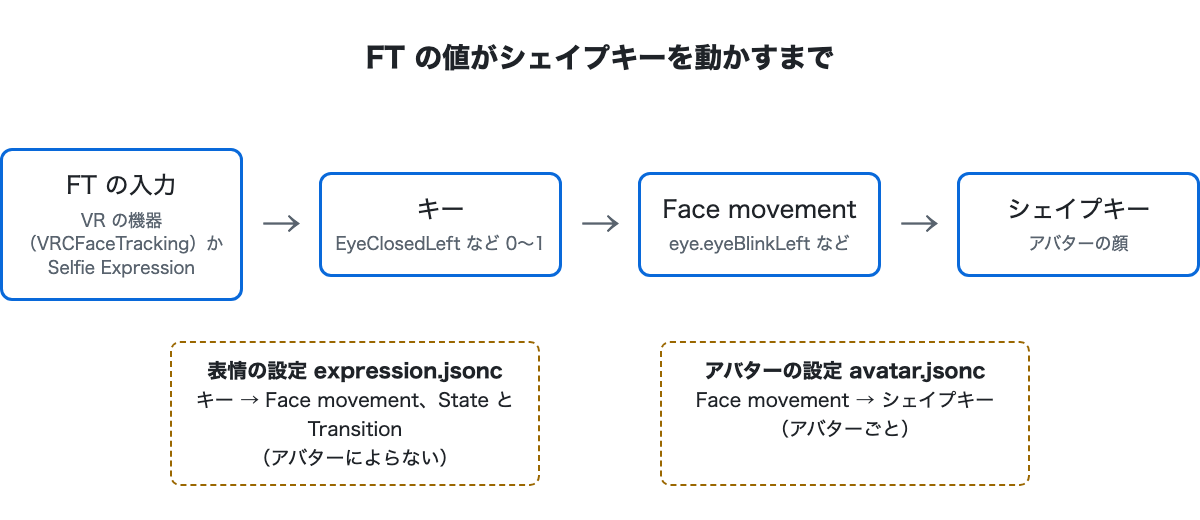
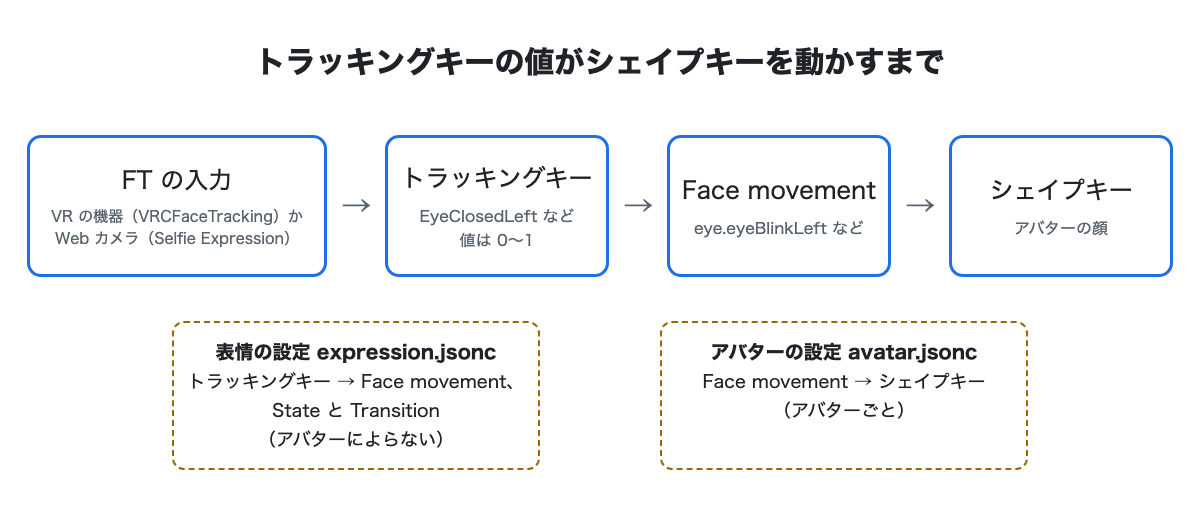
Name the version 1.0.3

diff --git a/Packages/dev.kmnk.face-tracking-generator/Documentation~/manual-ja/index.html b/Packages/dev.kmnk.face-tracking-generator/Documentation~/manual-ja/index.html
@@ -32,8 +32,8 @@ blockquote { margin: 1em 0; padding: 0 1em; color: var(--muted); border-left: 4p
 <div class="page">
 <main>
 <h1 id="face-tracking-generator-マニュアル">Face Tracking Generator マニュアル</h1>
-<p>Face Tracking Generator（FTG）は、VRChat のアバターのフェイストラッキング（FT）の設定を、Unity のエディタの中で作るツールです。このマニュアルは、FTG と一緒に配っている日本語のマニュアルです。設定ファイルの書き方や内部の振る舞いまで含めた英語の詳しいリファレンスは、リポジトリの README（<a href="https://github.com/kmnk/VRChat_FaceTrackingGenerator">https://github.com/kmnk/VRChat_FaceTrackingGenerator</a> ）にあります。</p>
-<p>FT の値を表情ごとに測るアプリ FT Measure（ft-measure）の使い方は、FT Measure のマニュアル（<a href="https://github.com/kmnk/ft-measure/blob/master/docs/manual-ja/README.md">https://github.com/kmnk/ft-measure/blob/master/docs/manual-ja/README.md</a> ）にあります。</p>
+<p>Face Tracking Generator（FTG）は、VRChat のアバターのフェイストラッキング（FT）の設定を、Unity のエディタの中で作成するツールです。このマニュアルは、FTG と一緒に配っている日本語のマニュアルです。設定ファイルの書き方や内部の振る舞いまで含めた英語の詳しいリファレンスは、リポジトリの README（<a href="https://github.com/kmnk/VRChat_FaceTrackingGenerator">https://github.com/kmnk/VRChat_FaceTrackingGenerator</a> ）にあります。</p>
+<p><a href="#%E7%94%A8%E8%AA%9E%E9%9B%86">トラッキングキー</a>の値を表情ごとに測るアプリ FT Measure（ft-measure）の使い方は、FT Measure のマニュアル（<a href="https://github.com/kmnk/ft-measure/blob/master/docs/manual-ja/README.md">https://github.com/kmnk/ft-measure/blob/master/docs/manual-ja/README.md</a> ）にあります。</p>
 <nav class="toc" aria-label="目次">
 <strong>目次</strong>
 <ul>
@@ -99,26 +99,28 @@ blockquote { margin: 1em 0; padding: 0 1em; color: var(--muted); border-left: 4p
 <h2 id="はじめに">はじめに</h2>
 <h3 id="できること">できること</h3>
 <ul>
-<li>Web カメラ（VRChat の Selfie Expression）でも、VR の機器（VRCFaceTracking）でも使えます。VR の機器が無くても、デスクトップの VRChat で使えます（「<a href="#%E3%83%87%E3%82%B9%E3%82%AF%E3%83%88%E3%83%83%E3%83%97selfie-expression%E3%81%A7%E4%BD%BF%E3%81%86">デスクトップ（Selfie Expression）で使う</a>」）</li>
-<li><a href="#%E7%94%A8%E8%AA%9E%E9%9B%86">Face movement</a>（まばたき、口の開き、口角など）を、FT の値でアバターのシェイプキーに当てます</li>
-<li><code>joy</code>・<code>angry</code>・<code>sad</code> のような <a href="#%E7%94%A8%E8%AA%9E%E9%9B%86">State</a> を作り、State から State へ移る <a href="#%E7%94%A8%E8%AA%9E%E9%9B%86">Transition</a> とその条件（FT の値）を、Unity の Animator に似たグラフで書けます</li>
+<li>デスクトップでは Web カメラ（VRChat の Selfie Expression）で、VR では FT の機器（VRCFaceTracking）で使えます。FT の機器が無くても、デスクトップの VRChat で使えます（「<a href="#%E3%83%87%E3%82%B9%E3%82%AF%E3%83%88%E3%83%83%E3%83%97selfie-expression%E3%81%A7%E4%BD%BF%E3%81%86">デスクトップ（Selfie Expression）で使う</a>」）</li>
+<li><a href="#%E7%94%A8%E8%AA%9E%E9%9B%86">Face movement</a>（まばたき、口の開き、口角など）を、トラッキングキーの値でアバターのシェイプキーに当てます</li>
+<li><code>joy</code>・<code>angry</code>・<code>sad</code> のような <a href="#%E7%94%A8%E8%AA%9E%E9%9B%86">State</a> を作り、State から State へ移る <a href="#%E7%94%A8%E8%AA%9E%E9%9B%86">Transition</a> とその条件（トラッキングキーの値）を、Unity の Animator に似たグラフで書けます</li>
 <li>State ごとに、目や口の動きを上書きできます。涙や頬の赤らみのようなシェイプキーを、その State の間ずっと一定の量で出しておくこともできます（<strong>Fixed face movements</strong> の欄で設定します）</li>
 <li>VRChat でアバターを着たときに開くメニュー（Expressions Menu）から、State を選べるようにできます</li>
 <li>VR の機器とデスクトップ（VRChat の Selfie Expression）で、Transition の条件や <a href="#%E7%94%A8%E8%AA%9E%E9%9B%86">Curve</a> を分けて書けます</li>
 <li>FT の設定は、アップロードと Play Mode のタイミングで自動的に作成されます。元のアバターの各設定（コントローラー、Expressions Menu、Expression Parameters）は書き換えません</li>
 </ul>
 <h3 id="仕組み">仕組み</h3>
-<p><img src="images/overview.png" alt="FT の値がシェイプキーを動かすまでの流れ"></p>
-<p>VRChat は、VR の機器（VRCFaceTracking を通す）やデスクトップの Selfie Expression から、顔の値を受け取ります。値には <code>EyeClosedLeft</code>（左目の閉じ具合）や <code>JawOpen</code>（あごの開き）のような名前があり、この名前を<a href="#%E7%94%A8%E8%AA%9E%E9%9B%86">キー</a>と呼びます。値は 0〜1 です。</p>
-<p>FTG は、キーを Face movement（<code>eye.eyeBlinkLeft</code> など）に当て、Face movement をアバターのシェイプキーに当てます。この 2 段の対応を、2 つの設定ファイルに分けて持ちます。</p>
+<p><img src="images/overview.png" alt="トラッキングキーの値がシェイプキーを動かすまでの流れ"></p>
+<p>VRChat は、VR の機器（VRCFaceTracking を通す）やデスクトップの Selfie Expression（Web カメラ）から、顔の各部分がどのくらい動いているかを、0〜1 の値で受け取ります。値には <code>EyeClosedLeft</code>（左目の閉じ具合）や <code>JawOpen</code>（あごの開き）のような名前があり、この名前を<a href="#%E7%94%A8%E8%AA%9E%E9%9B%86">トラッキングキー</a>と呼びます（VRChat の Avatar Descriptor では Tracking Keys、FTG の画面では <strong>Key</strong> の列）。たとえば左目を閉じると <code>EyeClosedLeft</code> が 1 に近づきます。</p>
+<p>FTG は、トラッキングキーを Face movement（<code>eye.eyeBlinkLeft</code> など）に当て、Face movement をアバターのシェイプキーに当てます。この 2 段の対応を、2 つの設定ファイルに分けて持ちます。</p>
 <ul>
-<li>表情の設定（<code>expression.jsonc</code>）: どのキーでどの Face movement を動かすか、どんな State があるか。アバターによらないので、別のアバターに持っていけます</li>
+<li>表情の設定（<code>expression.jsonc</code>）: どのトラッキングキーでどの Face movement を動かすか、どんな State があるか。アバターによらないので、別のアバターに持っていけます</li>
 <li>アバターの設定（<code>avatar.jsonc</code>）: Face movement ごとに、このアバターのどのシェイプキーを動かすか</li>
 </ul>
-<p>Face movement とシェイプキーの対応は、VRChat のネイティブ FT（アバターの Avatar Descriptor の Face Tracking の区画）の <a href="#%E7%94%A8%E8%AA%9E%E9%9B%86">Blendshapes Set</a> として書かれます。VRChat がシェイプキーを直接動かすので、FT の値をパラメータで同期しません。Transition の条件に使うキーだけは、VRChat の <a href="#%E7%94%A8%E8%AA%9E%E9%9B%86">Forward to Animator</a> で Animator に渡します。</p>
+<p><img src="images/value-flow.png" alt="左目を閉じたときに、トラッキングキーの値がシェイプキーに届くまでの例"></p>
+<p>たとえば左目を閉じて <code>EyeClosedLeft</code> が 0.9 になると、<a href="#%E7%94%A8%E8%AA%9E%E9%9B%86">neutral</a> では、表情の設定の行「<code>EyeClosedLeft</code> → <code>eye.eyeBlinkLeft</code>」と、アバターの設定で <code>eye.eyeBlinkLeft</code> に当てたまばたきのシェイプキーを通って、そのシェイプキーが 90 動きます。<code>joy</code> に入っていて <code>joy</code> が目の <a href="#%E7%94%A8%E8%AA%9E%E9%9B%86">Region</a> を上書きしていると、同じ <code>EyeClosedLeft</code> が <code>eye.joy.eyeBlinkLeft</code> を通り、別のシェイプキー（目を弧の形にして閉じるシェイプキーなど）が動きます。動く量は、行の <a href="#%E7%94%A8%E8%AA%9E%E9%9B%86">Curve</a> とアバターの設定の <a href="#%E7%94%A8%E8%AA%9E%E9%9B%86">Scale</a> で変えられます。</p>
+<p>Face movement とシェイプキーの対応は、VRChat のネイティブ FT（アバターの Avatar Descriptor の Face Tracking の区画）の <a href="#%E7%94%A8%E8%AA%9E%E9%9B%86">Blendshapes Set</a> として書かれます。VRChat がシェイプキーを直接動かすので、FT の値をパラメータで同期しません。Transition の条件に使うトラッキングキーだけは、VRChat の <a href="#%E7%94%A8%E8%AA%9E%E9%9B%86">Forward to Animator</a> で Animator に渡します。</p>
 <h3 id="neutral-と-state">neutral と State</h3>
-<p>どの State にも入っていないときの顔を <a href="#%E7%94%A8%E8%AA%9E%E9%9B%86">neutral</a> と呼びます。neutral では、目・口などの <a href="#%E7%94%A8%E8%AA%9E%E9%9B%86">Region</a> ごとに、キーが Face movement を動かします。</p>
-<p>State（<code>joy</code> など）に入ると、その State が上書きする Region だけ、動き方が替わります。たとえば <code>joy</code> で目を上書きすると、<code>joy</code> の間は、まばたきのキーで動くシェイプキーを、ふだんのまばたきとは別のもの（たとえば目を弧の形にして閉じるシェイプキー）に替えられます。上書きしない Region は、neutral のまま動きます。</p>
+<p>どの State にも入っていないときの顔を <a href="#%E7%94%A8%E8%AA%9E%E9%9B%86">neutral</a> と呼びます。neutral では、目・口などの <a href="#%E7%94%A8%E8%AA%9E%E9%9B%86">Region</a> ごとに、トラッキングキーが Face movement を動かします。</p>
+<p>State（<code>joy</code> など）に入ると、その State が上書きする Region だけ、動き方が替わります。たとえば <code>joy</code> で目を上書きすると、<code>joy</code> の間は、まばたきのトラッキングキーで動くシェイプキーを、ふだんのまばたきとは別のもの（たとえば目を弧の形にして閉じるシェイプキー）に替えられます。上書きしない Region は、neutral のまま動きます。</p>
 <p>State は <a href="#%E7%94%A8%E8%AA%9E%E9%9B%86">State Machine</a> の中にあり、Transition の条件（「左右の口角を上げる値がどちらも 0.8 を超えたら <code>joy</code> に入る」など）で切り替わります。State Machine は複数並べられます。</p>
 <h3 id="vr-とデスクトップ">VR とデスクトップ</h3>
 <p>VR の機器とデスクトップの Selfie Expression では、同じ顔をしても値の出方が違うことがあります。FTG は、Transition・Curve・Stop visemes を機器ごとに書けます。書かなければ両方で同じです。詳しくは「<a href="#vr-%E3%81%A8%E3%83%87%E3%82%B9%E3%82%AF%E3%83%88%E3%83%83%E3%83%97%E3%81%A7%E5%88%86%E3%81%91%E3%82%8B">VR とデスクトップで分ける</a>」にあります。</p>
@@ -213,7 +215,7 @@ blockquote { margin: 1em 0; padding: 0 1em; color: var(--muted); border-left: 4p
 <h3 id="state-の顔を作る">State の顔を作る</h3>
 <ol>
 <li>グラフで <strong>joy</strong> を選びます。右に State の設定が出ます</li>
-<li>目の Region（eye）を <strong>Override</strong> にし、<strong>+ Add Row</strong> で行を追加します。行は「キー → Face movement」です。たとえば <code>EyeClosedLeft</code> → <code>eye.joy.eyeBlinkLeft</code> にすると、<code>joy</code> の間は、左目のまばたきで <code>eye.joy.eyeBlinkLeft</code> に当てたシェイプキーが動きます（下の画像の行）
+<li>目の Region（eye）を <strong>Override</strong> にし、<strong>+ Add Row</strong> で行を追加します。行は「トラッキングキー → Face movement」です。たとえば <code>EyeClosedLeft</code> → <code>eye.joy.eyeBlinkLeft</code> にすると、<code>joy</code> の間は、左目のまばたきで <code>eye.joy.eyeBlinkLeft</code> に当てたシェイプキーが動きます（下の画像の行）
 <ul>
 <li><code>joy</code> の間だけ使う Face movement は、先に設定エディタの Avatar タブの <strong>+ Add Face Movement</strong> で <code>eye.joy.eyeBlinkLeft</code> のように「Region.State.名前」で追加し、使いたいシェイプキー（目を弧の形にして閉じるシェイプキーなど）を当てておきます</li>
 </ul>
@@ -223,7 +225,7 @@ blockquote { margin: 1em 0; padding: 0 1em; color: var(--muted); border-left: 4p
 </ol>
 <p>State を選ぶと、Face view にその State の顔が出ます。</p>
 <p><img src="images/face-view-joy.png" alt="Face view の joy の顔"></p>
-<p>Region の <strong>Off</strong> は、その Region の neutral の動きを止めます。話している間にも入る State（口角で入る <code>joy</code> など）で口の Region（lip）を Off にすると、その間は FT で口角や唇が動かなくなります。<strong>Don't move</strong> の行は、そのキーで何も動かしません。<strong>Copy from</strong> で、別の State の行を写せます。</p>
+<p>Region の <strong>Off</strong> は、その Region の neutral の動きを止めます。話している間にも入る State（口角で入る <code>joy</code> など）で口の Region（lip）を Off にすると、その間は FT で口角や唇が動かなくなります。<strong>Don't move</strong> の行は、そのトラッキングキーで何も動かしません。<strong>Copy from</strong> で、別の State の行を写せます。</p>
 <h3 id="transition-の条件を変える">Transition の条件を変える</h3>
 <p>テンプレートの Transition は、入り方の 3 つの見本になっています。</p>
 <ul>
@@ -243,7 +245,7 @@ blockquote { margin: 1em 0; padding: 0 1em; color: var(--muted); border-left: 4p
 <h3 id="preview-で確認する">Preview で確認する</h3>
 <ol>
 <li>設定エディタの <strong>Preview</strong> タブで、シーンのアバターを選び、<strong>Start preview</strong> を押します</li>
-<li>スライダー（キー）を動かすと、顔と State が変わります</li>
+<li>スライダー（トラッキングキー）を動かすと、顔と State が変わります</li>
 <li><strong>Try expressions</strong> は、崩れやすい表情にスライダーを合わせます。同じ所に重なる Face movement の数と、警告が出ます</li>
 <li><strong>Stop preview</strong> でアバターを元に戻します</li>
 </ol>
@@ -293,22 +295,22 @@ blockquote { margin: 1em 0; padding: 0 1em; color: var(--muted); border-left: 4p
 </ol>
 <p>Web カメラの映像は PC の中で処理され、VRChat には送られません。</p>
 <h3 id="動くものと動かないもの">動くものと動かないもの</h3>
-<p>VRChat は、Selfie Expression がどのキーを送るかを公開していません。作者が 2026-11-16 にデスクトップで FT Measure で測った記録では、次のようでした。</p>
+<p>VRChat は、Selfie Expression がどのトラッキングキーを送るかを公開していません。作者が 2026-11-16 にデスクトップで FT Measure で測った記録では、次のようでした。</p>
 <ul>
-<li>まばたき・眉・口の開き・口角・唇のキーは、表情に合わせて動きました</li>
-<li>舌のキーは届きませんでした</li>
-<li>頬を膨らませるキーは、ほとんど動きませんでした</li>
+<li>まばたき・眉・口の開き・口角・唇のトラッキングキーは、表情に合わせて動きました</li>
+<li>舌のトラッキングキーは届きませんでした</li>
+<li>頬を膨らませるトラッキングキーは、ほとんど動きませんでした</li>
 </ul>
 <h3 id="state-に入りにくいとき">State に入りにくいとき</h3>
 <p>State Machine のウィンドウの <strong>Input</strong> を <strong>Desktop</strong> にして、デスクトップの Transition の条件の値を下げます（「<a href="#vr-%E3%81%A8%E3%83%87%E3%82%B9%E3%82%AF%E3%83%88%E3%83%83%E3%83%97%E3%81%A7%E5%88%86%E3%81%91%E3%82%8B">VR とデスクトップで分ける</a>」）。テンプレートの <code>sad</code> は、デスクトップでは 0.2 で入ります。FT Measure でデスクトップの値を測ると、表情ごとの値の幅を見て値を決められます（「<a href="#ft-measure-%E3%81%A7%E5%80%A4%E3%81%AE%E5%B9%85%E3%82%92%E8%A6%8B%E3%82%8B">FT Measure で値の幅を見る</a>」）。</p>
 <h2 id="vr-とデスクトップで分ける">VR とデスクトップで分ける</h2>
-<p>VR の機器とデスクトップの Selfie Expression では、同じ顔でも動くキーと値の幅が違うことがあります。FTG では、次を機器ごとに書けます。</p>
+<p>VR の機器とデスクトップの Selfie Expression では、同じ顔でも動くトラッキングキーと値の幅が違うことがあります。FTG では、次を機器ごとに書けます。</p>
 <ul>
-<li>Transition（条件のキーと値）</li>
+<li>Transition（条件のトラッキングキーと値）</li>
 <li>行の <a href="#%E7%94%A8%E8%AA%9E%E9%9B%86">Curve</a></li>
 <li>State の Stop visemes</li>
 </ul>
-<p>State の一覧、Expressions Menu、行のキーと Face movement、Fixed face movements は、両方の機器で共有します。</p>
+<p>State の一覧、Expressions Menu、行のトラッキングキーと Face movement、Fixed face movements は、両方の機器で共有します。</p>
 <h3 id="機器を切り替えて書く">機器を切り替えて書く</h3>
 <ol>
 <li>State Machine のウィンドウの右上の <strong>Input</strong> で、書く機器（<strong>VR</strong> か <strong>Desktop</strong>）を選びます。ツールバーの下の帯に、どちらを書いているかが出ます</li>
@@ -320,18 +322,18 @@ blockquote { margin: 1em 0; padding: 0 1em; color: var(--muted); border-left: 4p
 </ol>
 <p>Preview タブの <strong>Device</strong> で機器を選ぶと、Preview はその機器の Transition と Curve で動きます。<strong>Selfie Expression</strong> と <strong>Desktop (records)</strong> はデスクトップとして、ほかの機器と <strong>None</strong> は VR として動きます。</p>
 <h3 id="ft-measure-で値の幅を見る">FT Measure で値の幅を見る</h3>
-<p>FT Measure は、利用者の顔で表情ごとに FT の値を測り、記録のファイル（<code>.jsonl</code>）に書くアプリです。記録を FTG に読ませると、どのキーがどのくらい動くかを見て、Transition のキーとしきい値を選べます。記録は参考に見るだけで、FTG の出力は変わりません。FT Measure を使わなくても、FTG は使えます。</p>
+<p>FT Measure は、利用者の顔で表情ごとにトラッキングキーの値を測り、記録のファイル（<code>.jsonl</code>）に書くアプリです。記録を FTG に読ませると、どのトラッキングキーがどのくらい動くかを見て、Transition のトラッキングキーとしきい値を選べます。記録は参考に見るだけで、FTG の出力は変わりません。FT Measure を使わなくても、FTG は使えます。</p>
 <p>測り方は FT Measure のマニュアル（<a href="https://github.com/kmnk/ft-measure/blob/master/docs/manual-ja/README.md">https://github.com/kmnk/ft-measure/blob/master/docs/manual-ja/README.md</a> ）にあります。測った後は次のとおり読ませます。</p>
 <ol>
 <li>設定エディタの <strong>Devices</strong> タブで、<strong>Add VR recording</strong> か <strong>Add Desktop recording</strong> を押し、記録のファイルを選びます。<code>avatar.jsonc</code> の隣の <code>Measurements/</code> に写されます</li>
 </ol>
 <p><img src="images/devices-tab.png" alt="記録が無いときの Devices タブ"></p>
 <ol start="2">
-<li><strong>Recorded faces</strong> で、測った顔（<strong>Face</strong>）を選ぶと、キーごとに、<strong>真顔</strong>・<strong>真顔で喋る</strong>・<strong>笑顔で喋る</strong>・その顔（列の見出しは顔の id）での値の幅が出ます。真顔より大きく動くキーが上に並び、ほとんど動かないキーは薄く出ます</li>
+<li><strong>Recorded faces</strong> で、測った顔（<strong>Face</strong>）を選ぶと、トラッキングキーごとに、<strong>真顔</strong>・<strong>真顔で喋る</strong>・<strong>笑顔で喋る</strong>・その顔（列の見出しは顔の id）での値の幅が出ます。真顔より大きく動くトラッキングキーが上に並び、ほとんど動かないトラッキングキーは薄く出ます</li>
 </ol>
 <p><img src="images/devices-recorded.png" alt="記録を読ませた Devices タブ（VR の記録、mouth_smile の顔）"></p>
 <ol start="3">
-<li>Preview タブの <strong>Device</strong> に <strong>VR (records)</strong> と <strong>Desktop (records)</strong> が出ます。選ぶと、スライダーの下にその機器の値の幅が出ます。幅の外では黄色、機器が送らないキーはオレンジです</li>
+<li>Preview タブの <strong>Device</strong> に <strong>VR (records)</strong> と <strong>Desktop (records)</strong> が出ます。選ぶと、スライダーの下にその機器の値の幅が出ます。幅の外では黄色、機器が送らないトラッキングキーはオレンジです</li>
 </ol>
 <p><img src="images/preview-records.png" alt="Device を VR (records) にした Preview タブ"></p>
 <p>画像の記録は作者が 2026-11-16 に VR の機器とデスクトップで測ったもので、<strong>Avatar in scene</strong> の欄は隠しています。</p>
@@ -347,7 +349,7 @@ blockquote { margin: 1em 0; padding: 0 1em; color: var(--muted); border-left: 4p
 <h3 id="stop-visemes">Stop visemes</h3>
 <p>State の <strong>Stop visemes</strong> を入れると、その State の間は、話しても声に合わせて口が動かなくなります（VRChat のリップシンクを止めます）。口の形を決めた State（舌を出すなど）で使います。</p>
 <h3 id="curve">Curve</h3>
-<p>行の <strong>Curve</strong> は、キーの値（横）に対して、Face movement をどのくらい動かすか（縦）を決める曲線です。押すと Unity の曲線のウィンドウで編集できます。曲線の一番高い所が、その行で動かす最大の量になります。</p>
+<p>行の <strong>Curve</strong> は、トラッキングキーの値（横）に対して、Face movement をどのくらい動かすか（縦）を決める曲線です。押すと Unity の曲線のウィンドウで編集できます。曲線の一番高い所が、その行で動かす最大の量になります。</p>
 <p>Curve の行は、VRChat の Parameter Behavior で動かします。数が多いと VRChat の上限を超えるので、State Machine のウィンドウの下の <strong>Face tracking cost</strong> を見てください。VRChat の上限を超えると赤、Excellent を超えると黄色で出ます。</p>
 <h3 id="別の-state-machine-を並べる">別の State Machine を並べる</h3>
 <p>State Machine は複数並べられます。たとえば表情の <code>Emotion</code> とは別に、頬の State Machine <code>Cheek</code> を作り、Expressions Menu から選べる State <code>blush</code>（頬の赤らみ）と <code>pale</code>（青ざめた顔）を置くと、どの表情とも組み合わせられます。State Machine のウィンドウの左上の一覧で、<strong>New State Machine…</strong> を選んで作ります。2 つの State Machine が同じ Region を上書きしないようにしてください（<strong>Check</strong> が指摘します）。</p>
@@ -554,7 +556,7 @@ blockquote { margin: 1em 0; padding: 0 1em; color: var(--muted); border-left: 4p
 </tr>
 <tr>
 <td>Inputs</td>
-<td>キーのスライダーの見出し</td>
+<td>トラッキングキーのスライダーの見出し</td>
 </tr>
 <tr>
 <td>Reset</td>
@@ -566,7 +568,7 @@ blockquote { margin: 1em 0; padding: 0 1em; color: var(--muted); border-left: 4p
 </tr>
 <tr>
 <td>Weights</td>
-<td>各シェイプキーを何が動かしているかを出します。<strong>Amount</strong> の列がその量、<strong>Source</strong> の列が動かしているもの（キーか State の Fixed face movements）です</td>
+<td>各シェイプキーを何が動かしているかを出します。<strong>Amount</strong> の列がその量、<strong>Source</strong> の列が動かしているもの（トラッキングキーか State の Fixed face movements）です</td>
 </tr>
 <tr>
 <td>Live input（Start / Stop）</td>
@@ -593,7 +595,7 @@ blockquote { margin: 1em 0; padding: 0 1em; color: var(--muted); border-left: 4p
 </tr>
 <tr>
 <td>Recorded faces</td>
-<td>測った顔ごとの、キーの値の幅</td>
+<td>測った顔ごとの、トラッキングキーの値の幅</td>
 </tr>
 <tr>
 <td>Face</td>
@@ -657,15 +659,15 @@ blockquote { margin: 1em 0; padding: 0 1em; color: var(--muted); border-left: 4p
 </tr>
 <tr>
 <td>+ Add Row</td>
-<td>上書きする Region に行を追加します。追加できるキーが無いときは <strong>(every key is written)</strong> と出ます</td>
+<td>上書きする Region に行を追加します。追加できるトラッキングキーが無いときは <strong>(every key is written)</strong> と出ます</td>
 </tr>
 <tr>
 <td>Add Key/ / Remove Key/</td>
-<td>最初の State で、Region の見出しの右クリックから、キーを追加・削除する</td>
+<td>最初の State で、Region の見出しの右クリックから、トラッキングキーを追加・削除する</td>
 </tr>
 <tr>
 <td>Don't move</td>
-<td>その行のキーで何も動かしません</td>
+<td>その行のトラッキングキーで何も動かしません</td>
 </tr>
 <tr>
 <td>Copy from / Copy</td>
@@ -673,7 +675,7 @@ blockquote { margin: 1em 0; padding: 0 1em; color: var(--muted); border-left: 4p
 </tr>
 <tr>
 <td>Key / Movement / Curve</td>
-<td>行の列。キー、動かす Face movement、Curve。Movement の選択肢の <strong>New face movement…</strong> と、Fixed face movements の <strong>+ Add Face Movement</strong> のメニューの <strong>New face movement…</strong> は、Face movement を追加する小さなウィンドウ（見出しは New face movement）を開きます</td>
+<td>行の列。トラッキングキー、動かす Face movement、Curve。Movement の選択肢の <strong>New face movement…</strong> と、Fixed face movements の <strong>+ Add Face Movement</strong> のメニューの <strong>New face movement…</strong> は、Face movement を追加する小さなウィンドウ（見出しは New face movement）を開きます</td>
 </tr>
 <tr>
 <td>Curve</td>
@@ -727,8 +729,8 @@ blockquote { margin: 1em 0; padding: 0 1em; color: var(--muted); border-left: 4p
 </thead>
 <tbody>
 <tr>
-<td>キー</td>
-<td>VRChat が FT の入力から受け取る顔の値（Key）。<code>EyeClosedLeft</code>・<code>JawOpen</code> など。0〜1</td>
+<td>トラッキングキー</td>
+<td>VRChat が FT の入力から受け取る顔の値の名前（画面では <strong>Key</strong>）。<code>EyeClosedLeft</code>・<code>JawOpen</code> など。0〜1</td>
 </tr>
 <tr>
 <td>Face movement</td>
@@ -752,15 +754,15 @@ blockquote { margin: 1em 0; padding: 0 1em; color: var(--muted); border-left: 4p
 </tr>
 <tr>
 <td>Transition</td>
-<td>State から State への切り替え。キーの条件を持ちます</td>
+<td>State から State への切り替え。トラッキングキーの条件を持ちます</td>
 </tr>
 <tr>
 <td>しきい値</td>
-<td>Transition の条件で、キーと比べる値</td>
+<td>Transition の条件で、トラッキングキーと比べる値</td>
 </tr>
 <tr>
 <td>Curve</td>
-<td>キーの値に対する、Face movement を動かす量の曲線。一番高い所が最大の量（0〜1）</td>
+<td>トラッキングキーの値に対する、Face movement を動かす量の曲線。一番高い所が最大の量（0〜1）</td>
 </tr>
 <tr>
 <td>Scale</td>
@@ -772,7 +774,7 @@ blockquote { margin: 1em 0; padding: 0 1em; color: var(--muted); border-left: 4p
 </tr>
 <tr>
 <td>Forward to Animator</td>
-<td>キーの値を Animator のパラメータに渡す VRChat の機能。FTG は Transition の条件に使うキーだけを渡します</td>
+<td>トラッキングキーの値を Animator のパラメータに渡す VRChat の機能。FTG は Transition の条件に使うトラッキングキーだけを渡します</td>
 </tr>
 <tr>
 <td>Forwarded Parameters</td>
@@ -803,7 +805,7 @@ blockquote { margin: 1em 0; padding: 0 1em; color: var(--muted); border-left: 4p
 </ul>
 <h3 id="excellent-でなくなる">Excellent でなくなる</h3>
 <ul>
-<li>Transition の条件に使うキーが 10 を超えると、<a href="#%E7%94%A8%E8%AA%9E%E9%9B%86">Forwarded Parameters</a> で Excellent でなくなります</li>
+<li>Transition の条件に使うトラッキングキーが 10 を超えると、<a href="#%E7%94%A8%E8%AA%9E%E9%9B%86">Forwarded Parameters</a> で Excellent でなくなります</li>
 <li>1 つの行でも VR とデスクトップで Curve を分けると、すべての Blendshapes Set が VR 用とデスクトップ用に分かれ、Blendshapes Set の数が 2 倍になります。Face Tracking Operations も増えるので、<strong>Face tracking cost</strong> を見てください</li>
 </ul>
 <h3 id="ウィンドウが止まったまま">ウィンドウが止まったまま</h3>

diff --git a/Packages/dev.kmnk.face-tracking-generator/Editor/TableEditor/EditorText.cs b/Packages/dev.kmnk.face-tracking-generator/Editor/TableEditor/EditorText.cs
@@ -86,10 +86,10 @@ namespace Kmnk.FaceTrackingGenerator
             ["part.region"] = ("It moves rows of its region, so the region (before the first dot) cannot change.", "Region の行で使われているので、Region（最初の . の前）は変えられません。"),
             ["part.addIn"] = ("Add a face movement to {0}", "{0} に Face movement を追加"),
             ["part.regionOf"] = ("A movement of this row must start with \"{0}.\".", "この行の動きは「{0}.」で始めてください。"),
-            ["sm.others"] = ("The other {0} keys move with neutral.", "ほかの {0} キーは neutral で動きます。"),
-            ["sm.curveTip"] = ("How much the movement moves (up) for the key's value (right). Click to edit. Its highest point is the most it moves.", "キーの値（横）に対する動く量（縦）。クリックで編集します。一番高い所が、動く最大の量です。"),
+            ["sm.others"] = ("The other {0} keys move with neutral.", "ほかの {0} 個のトラッキングキーは neutral で動きます。"),
+            ["sm.curveTip"] = ("How much the movement moves (up) for the key's value (right). Click to edit. Its highest point is the most it moves.", "トラッキングキーの値（横）に対する動く量（縦）。クリックで編集します。一番高い所が、動く最大の量です。"),
             ["sm.curveNote"] = ("The curve of {0} can't be matched closely by an expression (largest difference {1}).", "{0} の Curve は、式で近づけきれません（最大の差 {1}）。"),
-            ["tip.removeRow"] = ("Put this key back to neutral.", "このキーを neutral に戻します。"),
+            ["tip.removeRow"] = ("Put this key back to neutral.", "このトラッキングキーを neutral に戻します。"),
             ["sm.noFixed"] = ("No fixed movements.", "Fixed face movements はありません。"),
             ["sm.noTable"] = ("Open a settings file in the settings editor.", "設定エディタで設定ファイルを開いてください。"),
             ["sm.brokenTransitions"] = ("{0} transitions go to or from a state this state machine does not have (transitions[{1}]). They are not drawn and generation leaves them out.", "{0} 個の Transition が、この State Machine に無い State を指しています（transitions[{1}]）。グラフには描かれず、生成でも使われません。"),
